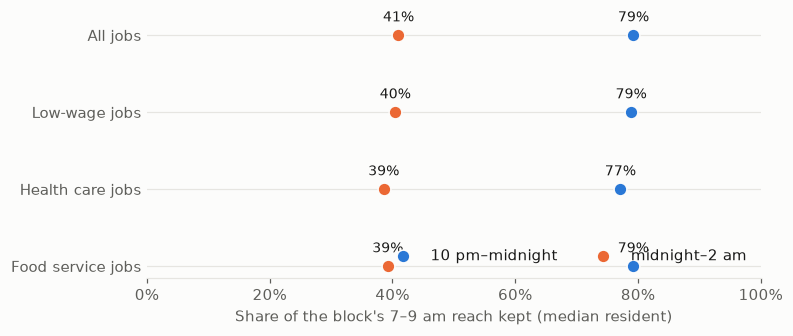
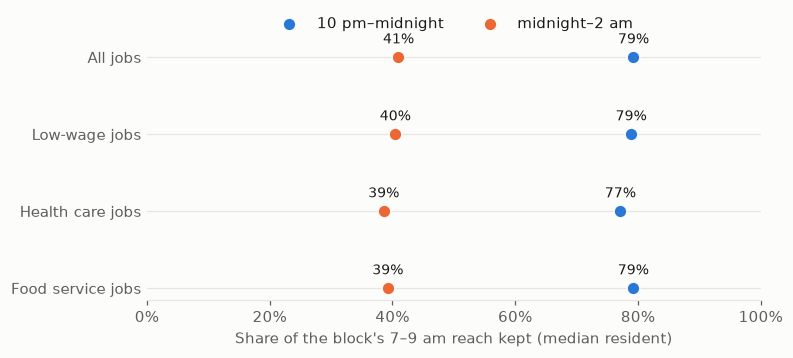
Figure: legend above the sector dot plot

diff --git a/analysis/night_shift.py b/analysis/night_shift.py
@@ -133,7 +133,7 @@ def main():
     for sp in ["top", "right", "left"]:
         ax.spines[sp].set_visible(False)
     ax.tick_params(axis="y", length=0)
-    ax.legend(frameon=False, loc="lower right", ncol=2)
+    ax.legend(frameon=False, loc="lower center", bbox_to_anchor=(0.5, 1.0), ncol=2)
     fig.savefig(figs / "night_by_sector.png", dpi=110, bbox_inches="tight")
     plt.close(fig)
 
